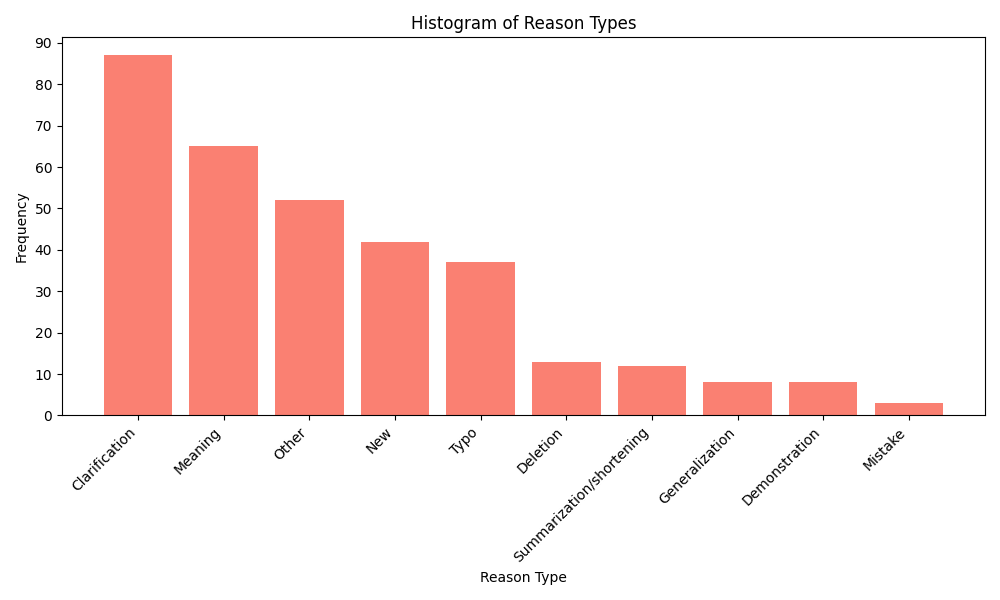
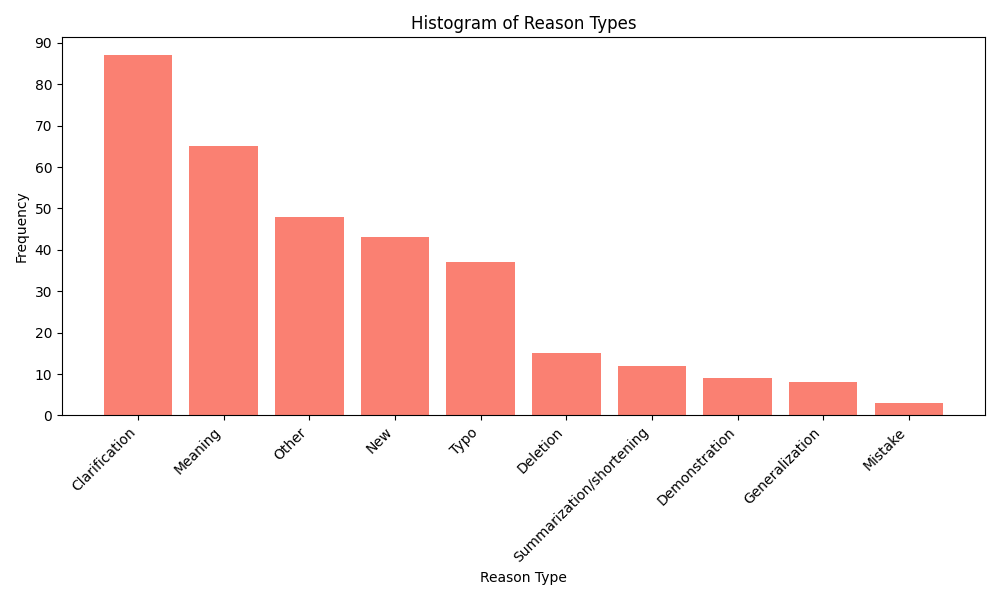
refine some changes under 'Other' category

diff --git a/reports/report_pep-0771.html b/reports/report_pep-0771.html
@@ -2687,10 +2687,10 @@
 <span class="diff-line">         "..."</span></div>
                         </td>
                         <td>
-                            <div class="reason-type tooltip">Other
-                                <span class="tooltiptext">The change does not fit into any of the above categories (e.g. metadata removal, formatting changes, boilerplate).</span>
+                            <div class="reason-type tooltip">Deletion
+                                <span class="tooltiptext">An entire REQUIREMENT was redundant and therefore removed. Do NOT use this for removal of metadata, placeholders, or formatting.</span>
                             </div>
-                            <p>The primary change is the deletion of the 'minimal' extra under [project.optional-dependencies] (minimal = []). This removes a previously defined optional-dependency path, changing the documented behavior and semantics of default extras. It is not a typo, new requirement, or clarification, but a removal that alters the requirement set.</p>
+                            <p>Removal of a previously supported feature.</p>
                         </td>
                         
                         <td>
@@ -2988,10 +2988,10 @@
 <span class="diff-line"> The ability for a package to reference itself in the extras is supported by</span></div>
                         </td>
                         <td>
-                            <div class="reason-type tooltip">Other
-                                <span class="tooltiptext">The change does not fit into any of the above categories (e.g. metadata removal, formatting changes, boilerplate).</span>
+                            <div class="reason-type tooltip">Demonstration
+                                <span class="tooltiptext">An example or visualization was added to assist in understanding.</span>
                             </div>
-                            <p>The changes modify the structure and content of the [project.optional-dependencies] block: the 'minimal' key is removed, a new 'alternative' key is added with 'package3', and 'package3' is moved out of 'additional' into 'alternative' while 'package4' is added to 'additional'. This represents a semantic/behavioral change in the default-extras configuration rather than a simple typo, new standalone requirement, or minor wording adjustment; it alters which extras are installed by default and how defaults interact, so it does not map cleanly to the predefined categories (hence 'Other').</p>
+                            <p>The main change here demonstrates a new feature (of the "alternate" keyword) that was explained above.</p>
                         </td>
                         
                         <td>
@@ -3053,10 +3053,10 @@
 <span class="diff-line">         "..."</span></div>
                         </td>
                         <td>
-                            <div class="reason-type tooltip">Other
-                                <span class="tooltiptext">The change does not fit into any of the above categories (e.g. metadata removal, formatting changes, boilerplate).</span>
+                            <div class="reason-type tooltip">Deletion
+                                <span class="tooltiptext">An entire REQUIREMENT was redundant and therefore removed. Do NOT use this for removal of metadata, placeholders, or formatting.</span>
                             </div>
-                            <p>The primary change is the deletion of the line 'minimal = []' from [project.optional-dependencies] in the New Version. This is an editorial/shortening adjustment (removing a demonstration of a default-empty extra) rather than a substantive change to requirements, nor a new or meaning-change change.</p>
+                            <p>Removal of a previously supported feature.</p>
                         </td>
                         
                         <td>

diff --git a/final_reports/final_report_pep-0771.html b/final_reports/final_report_pep-0771.html
@@ -1556,10 +1556,10 @@
 <span class="diff-line">         "..."</span></div>
                         </td>
                         <td>
-                            <div class="reason-type tooltip">Other
-                                <span class="tooltiptext">The change does not fit into any of the above categories (e.g. metadata removal, formatting changes, boilerplate).</span>
+                            <div class="reason-type tooltip">Deletion
+                                <span class="tooltiptext">An entire REQUIREMENT was redundant and therefore removed. Do NOT use this for removal of metadata, placeholders, or formatting.</span>
                             </div>
-                            <p>The primary change is the deletion of the 'minimal' extra under [project.optional-dependencies] (minimal = []). This removes a previously defined optional-dependency path, changing the documented behavior and semantics of default extras. It is not a typo, new requirement, or clarification, but a removal that alters the requirement set.</p>
+                            <p>Removal of a previously supported feature.</p>
                         </td>
                         
                     </tr>
@@ -1701,10 +1701,10 @@
 <span class="diff-line"> The ability for a package to reference itself in the extras is supported by</span></div>
                         </td>
                         <td>
-                            <div class="reason-type tooltip">Other
-                                <span class="tooltiptext">The change does not fit into any of the above categories (e.g. metadata removal, formatting changes, boilerplate).</span>
+                            <div class="reason-type tooltip">Demonstration
+                                <span class="tooltiptext">An example or visualization was added to assist in understanding.</span>
                             </div>
-                            <p>The changes modify the structure and content of the [project.optional-dependencies] block: the 'minimal' key is removed, a new 'alternative' key is added with 'package3', and 'package3' is moved out of 'additional' into 'alternative' while 'package4' is added to 'additional'. This represents a semantic/behavioral change in the default-extras configuration rather than a simple typo, new standalone requirement, or minor wording adjustment; it alters which extras are installed by default and how defaults interact, so it does not map cleanly to the predefined categories (hence 'Other').</p>
+                            <p>The main change here demonstrates a new feature (of the "alternate" keyword) that was explained above.</p>
                         </td>
                         
                     </tr>
@@ -1727,10 +1727,10 @@
 <span class="diff-line">         "..."</span></div>
                         </td>
                         <td>
-                            <div class="reason-type tooltip">Other
-                                <span class="tooltiptext">The change does not fit into any of the above categories (e.g. metadata removal, formatting changes, boilerplate).</span>
+                            <div class="reason-type tooltip">Deletion
+                                <span class="tooltiptext">An entire REQUIREMENT was redundant and therefore removed. Do NOT use this for removal of metadata, placeholders, or formatting.</span>
                             </div>
-                            <p>The primary change is the deletion of the line 'minimal = []' from [project.optional-dependencies] in the New Version. This is an editorial/shortening adjustment (removing a demonstration of a default-empty extra) rather than a substantive change to requirements, nor a new or meaning-change change.</p>
+                            <p>Removal of a previously supported feature.</p>
                         </td>
                         
                     </tr>

diff --git a/reports/report_pep-0554.html b/reports/report_pep-0554.html
@@ -1680,10 +1680,10 @@
 <span class="diff-line"> =========================</span></div>
                         </td>
                         <td>
-                            <div class="reason-type tooltip">Other
-                                <span class="tooltiptext">The change does not fit into any of the above categories (e.g. metadata removal, formatting changes, boilerplate).</span>
+                            <div class="reason-type tooltip">New
+                                <span class="tooltiptext">A new requirement was added.</span>
                             </div>
-                            <p>Added a new documentation anchor label '.. _interpreters-is-shareable:' in the 'interpreters' Module API section. This is a formatting/navigation change and does not modify requirements, constraints, or behavior.</p>
+                            <p>Adds new features that enable cross-interpreter sharing and concurrent execution. The diff introduces new API items and capabilities not present before: a new is_shareable(obj) function to indicate whether an object’s data can be shared across interpreters; a new concurrent.futures.InterpreterPoolExecutor for executing tasks in sub-interpreters; and expanded Interpreters API (e.g., set_main_attrs accepting iterable/mapping and channel-based sharing) to support cross-interpreter communication. Overall, this represents newly introduced behavior/capabilities rather than a correction or clarification.</p>
                         </td>
                         
                         <td>

diff --git a/final_reports/final_report_pep-0554.html b/final_reports/final_report_pep-0554.html
@@ -939,10 +939,10 @@
 <span class="diff-line"> =========================</span></div>
                         </td>
                         <td>
-                            <div class="reason-type tooltip">Other
-                                <span class="tooltiptext">The change does not fit into any of the above categories (e.g. metadata removal, formatting changes, boilerplate).</span>
+                            <div class="reason-type tooltip">New
+                                <span class="tooltiptext">A new requirement was added.</span>
                             </div>
-                            <p>Added a new documentation anchor label '.. _interpreters-is-shareable:' in the 'interpreters' Module API section. This is a formatting/navigation change and does not modify requirements, constraints, or behavior.</p>
+                            <p>Adds new features that enable cross-interpreter sharing and concurrent execution. The diff introduces new API items and capabilities not present before: a new is_shareable(obj) function to indicate whether an object’s data can be shared across interpreters; a new concurrent.futures.InterpreterPoolExecutor for executing tasks in sub-interpreters; and expanded Interpreters API (e.g., set_main_attrs accepting iterable/mapping and channel-based sharing) to support cross-interpreter communication. Overall, this represents newly introduced behavior/capabilities rather than a correction or clarification.</p>
                         </td>
                         
                     </tr>
